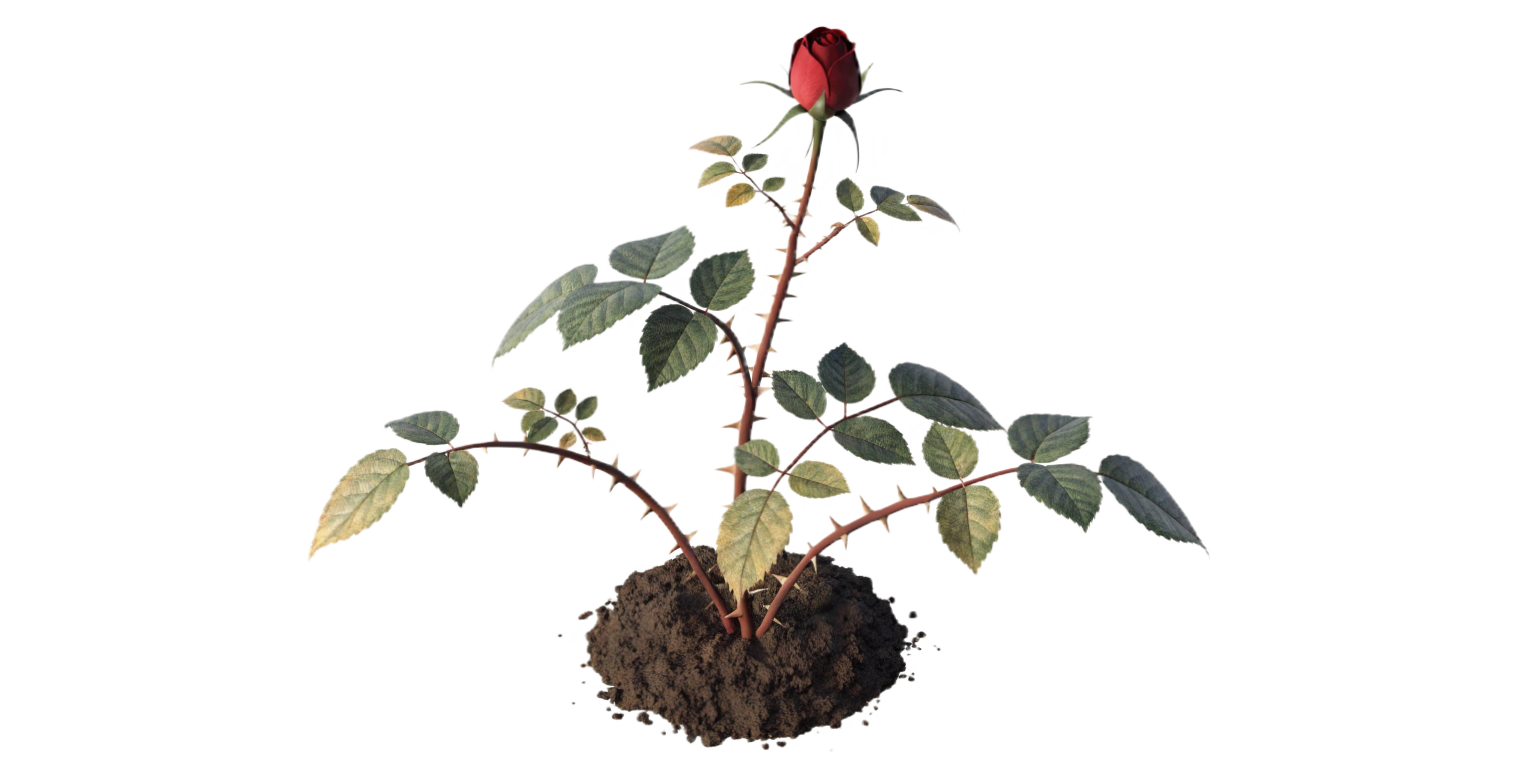
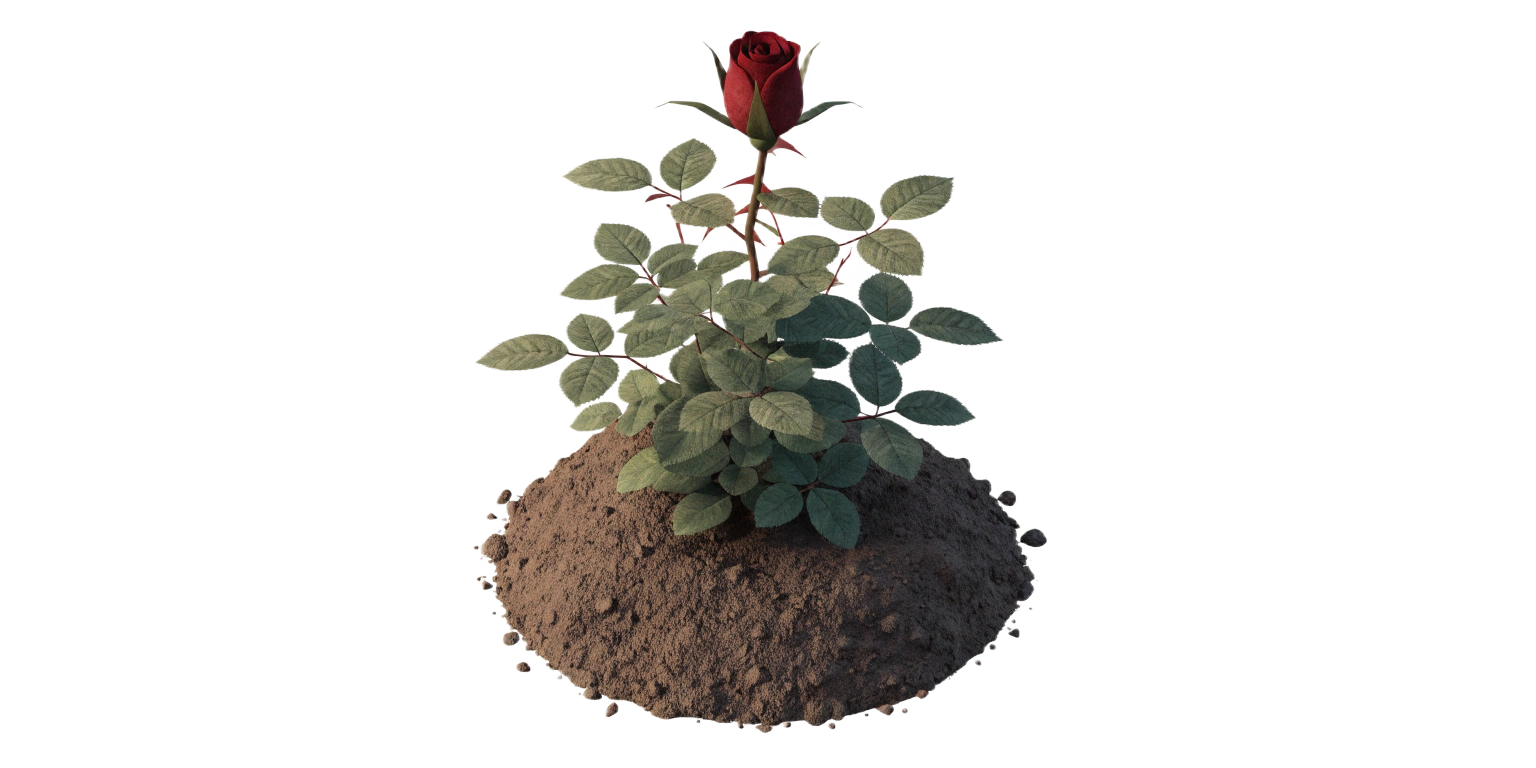
Repack the atlas at 512 px per tile and update rose stages 3 and 4
- asset_packer.py: add --source-tile-width; sprites are resampled by
  tile-width / source-tile-width on premultiplied alpha (no edge halos)
- Repack all 15 sprites from 720 to 512 px per tile: 1893x3425 -> 2043x1534,
  about half the decoded memory
- Replace plant_rose_stage3/4 and re-measure their anchors
- Packer tests for scaling, anchors under scaling and colour bleed

Changed region(s): [[0.1875, 0.0312, 0.7812, 0.9688]]

diff --git a/tools/asset_packer.py b/tools/asset_packer.py
@@ -15,6 +15,16 @@ Usage:
 
 The file name (without .png) becomes the assetId, e.g. plant_tulip_stage3.png -> "plant_tulip_stage3".
 
+Scaling
+  --tile-width is how many atlas pixels one grid tile spans. If the source art is drawn larger
+  than that, also pass --source-tile-width and every sprite is shrunk to match, e.g. art drawn
+  at 720 px per tile packed into a lighter 512 px-per-tile atlas:
+
+    python tools/asset_packer.py raw_assets/ out/ --tile-width 512 --source-tile-width 720
+
+  Changing --tile-width alone does not resize anything; it only changes how large the sprites
+  are drawn in the app.
+
 Anchors
   The anchor is the point of the sprite that stands on the ground. After cropping it defaults
   to the bottom center (0.5, 1.0). Override it per sprite in the overrides file, e.g. for a
@@ -79,7 +89,20 @@ def crop_to_alpha(image: Image.Image, alpha_threshold: int = 0) -> Image.Image |
     return None if box is None else rgba.crop(box)
 
 
-def load_sprites(input_dir: Path, alpha_threshold: int = 0) -> list[Sprite]:
+def scale_image(image: Image.Image, scale: float) -> Image.Image:
+    """Resample an RGBA image by `scale`.
+
+    The resize runs on premultiplied alpha: otherwise the colour stored in fully transparent
+    pixels (usually white or black) bleeds into the sprite's edges as a halo.
+    """
+    if scale == 1.0:
+        return image
+    size = (max(1, round(image.width * scale)), max(1, round(image.height * scale)))
+    return image.convert("RGBa").resize(size, Image.LANCZOS).convert("RGBA")
+
+
+def load_sprites(input_dir: Path, alpha_threshold: int = 0, scale: float = 1.0) -> list[Sprite]:
+    """Load, crop and (when scale != 1) resample every PNG in input_dir."""
     sprites = []
     for path in sorted(input_dir.glob("*.png")):
         with Image.open(path) as source:
@@ -87,7 +110,7 @@ def load_sprites(input_dir: Path, alpha_threshold: int = 0) -> list[Sprite]:
         if cropped is None:
             print(f"warning: {path.name} is fully transparent, skipped", file=sys.stderr)
             continue
-        sprites.append(Sprite(asset_id=path.stem, image=cropped))
+        sprites.append(Sprite(asset_id=path.stem, image=scale_image(cropped, scale)))
     return sprites
 
 
@@ -173,13 +196,21 @@ def run(
     output_dir: Path,
     *,
     tile_width: int = 256,
+    source_tile_width: int | None = None,
     max_width: int = 2048,
     padding: int = 2,
     alpha_threshold: int = 0,
     overrides_path: Path | None = None,
 ) -> dict:
-    """Run the whole pipeline and return the manifest that was written."""
-    sprites = load_sprites(input_dir, alpha_threshold)
+    """Run the whole pipeline and return the manifest that was written.
+
+    tile_width is how wide one grid tile is in the atlas. When the source art was drawn at a
+    different size (source_tile_width), every sprite is resampled by tile_width / source_tile_width.
+    """
+    if tile_width <= 0 or (source_tile_width is not None and source_tile_width <= 0):
+        raise ValueError("tile widths must be positive")
+    scale = 1.0 if source_tile_width is None else tile_width / source_tile_width
+    sprites = load_sprites(input_dir, alpha_threshold, scale)
     if not sprites:
         raise ValueError(f"no usable .png files in {input_dir}")
     if overrides_path is not None:
@@ -199,7 +230,10 @@ def main(argv: list[str] | None = None) -> int:
     parser.add_argument("input_dir", type=Path, help="folder of transparent .png files")
     parser.add_argument("output_dir", type=Path, help=f"where {ATLAS_NAME} and {MANIFEST_NAME} are written")
     parser.add_argument("--tile-width", type=int, default=256,
-                        help="pixel width of one grid tile in the source art (default: 256)")
+                        help="pixel width of one grid tile in the atlas (default: 256)")
+    parser.add_argument("--source-tile-width", type=int, default=None,
+                        help="pixel width of one grid tile in the source art, if different from "
+                             "--tile-width; sprites are resampled by tile-width / source-tile-width")
     parser.add_argument("--max-width", type=int, default=2048, help="maximum atlas width in pixels (default: 2048)")
     parser.add_argument("--padding", type=int, default=2, help="transparent pixels around each sprite (default: 2)")
     parser.add_argument("--alpha-threshold", type=int, default=0,
@@ -213,6 +247,7 @@ def main(argv: list[str] | None = None) -> int:
             args.input_dir,
             args.output_dir,
             tile_width=args.tile_width,
+            source_tile_width=args.source_tile_width,
             max_width=args.max_width,
             padding=args.padding,
             alpha_threshold=args.alpha_threshold,

diff --git a/tools/test_asset_packer.py b/tools/test_asset_packer.py
@@ -117,6 +117,41 @@ class AssetPackerTest(unittest.TestCase):
         with self.assertRaises(ValueError):
             asset_packer.apply_overrides(sprites, {"a": {"anchor_y": 0.5}})
 
+    def test_source_tile_width_shrinks_sprites_and_keeps_anchor_fractions(self):
+        make_png(self.src / "plant.png", (400, 400), (100, 40, 300, 360))  # 200x320 of content
+        overrides = self.root / "overrides.json"
+        overrides.write_text(json.dumps({"plant": {"anchorX": 0.4, "anchorY": 0.9}}))
+
+        manifest = asset_packer.run(
+            self.src, self.out, tile_width=128, source_tile_width=256, overrides_path=overrides)
+
+        plant = manifest["assets"][0]
+        self.assertEqual(128, manifest["tileWidth"])
+        self.assertEqual((100, 160), (plant["width"], plant["height"]))
+        self.assertEqual((0.4, 0.9), (plant["anchorX"], plant["anchorY"]))
+        with Image.open(self.out / "atlas.png") as atlas:
+            self.assertEqual((manifest["atlasWidth"], manifest["atlasHeight"]), atlas.size)
+
+    def test_tile_width_alone_does_not_resize(self):
+        make_png(self.src / "plant.png", (400, 400), (100, 40, 300, 360))
+        manifest = asset_packer.run(self.src, self.out, tile_width=128)
+        self.assertEqual((200, 320), (manifest["assets"][0]["width"], manifest["assets"][0]["height"]))
+
+    def test_scaling_does_not_bleed_the_transparent_background_colour(self):
+        # Opaque red on fully transparent *white*: a naive resize would turn the edge pink.
+        image = Image.new("RGBA", (64, 64), (255, 255, 255, 0))
+        image.paste((255, 0, 0, 255), (16, 16, 48, 48))
+
+        scaled = asset_packer.scale_image(image, 0.5)
+
+        self.assertEqual((32, 32), scaled.size)
+        for x in range(32):
+            for y in range(32):
+                r, g, b, a = scaled.getpixel((x, y))
+                if a > 16:
+                    self.assertLess(g, 40, f"green leaked in at {(x, y)}: {(r, g, b, a)}")
+                    self.assertLess(b, 40, f"blue leaked in at {(x, y)}: {(r, g, b, a)}")
+
     def test_sprite_wider_than_atlas_is_an_error(self):
         make_png(self.src / "wide.png", (300, 10), (0, 0, 300, 10))
         with self.assertRaises(ValueError):
